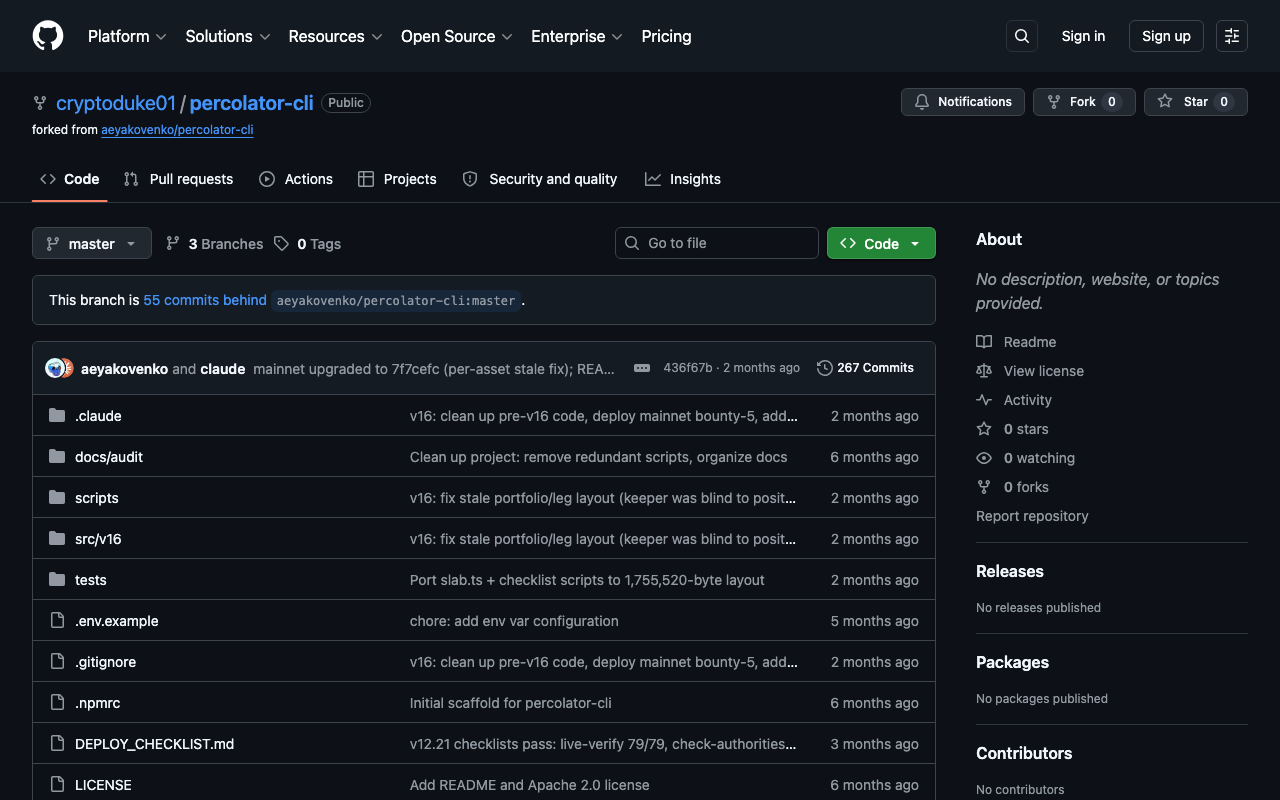
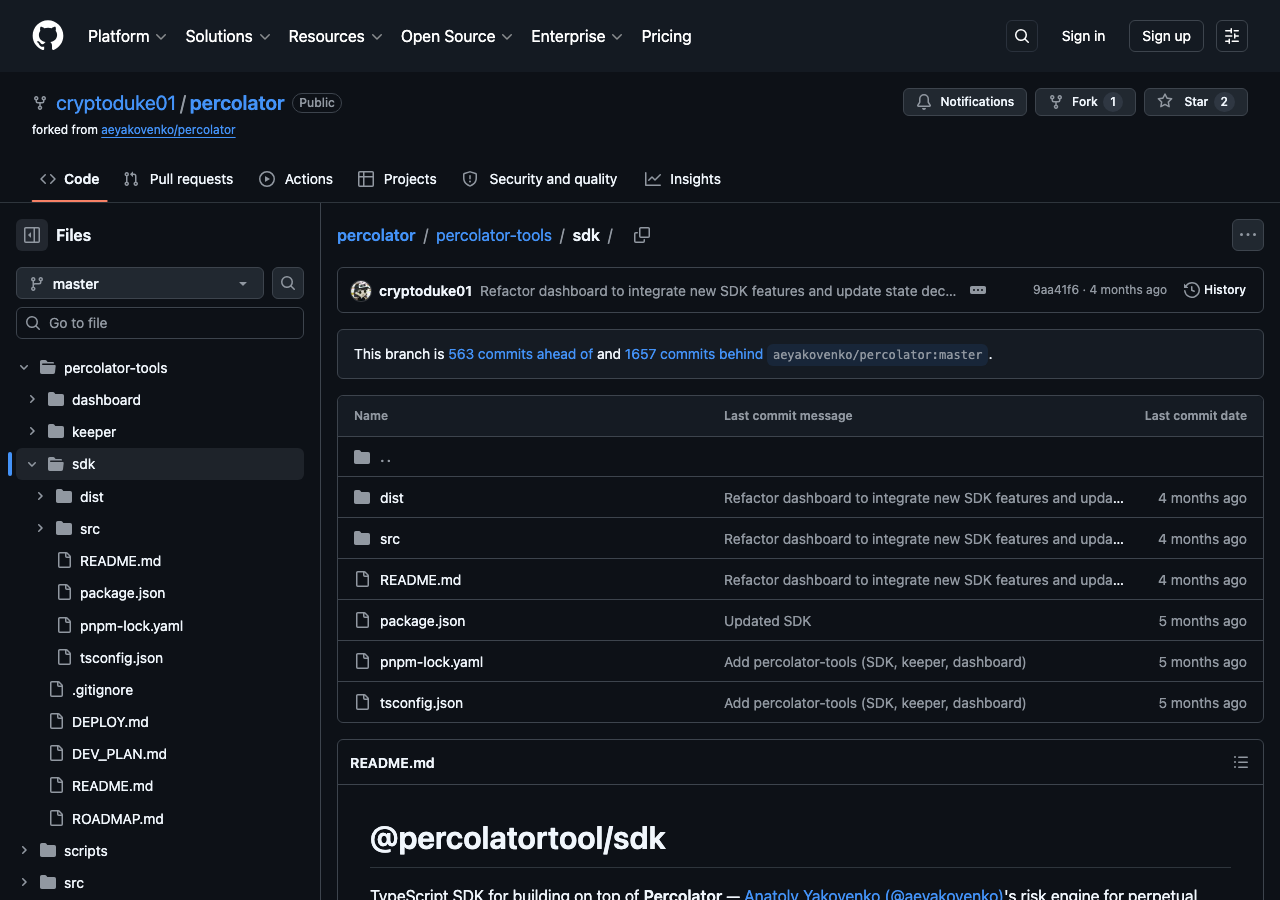
Image Fix on /content

diff --git a/src/app/projects/page.tsx b/src/app/projects/page.tsx
@@ -118,9 +118,9 @@ const projects = [
     title: "Siren",
     description: "Siren was a risk and intelligence layer for prediction markets routing through polymarket, kalshi, through Jupiter and DFlow on Solana.",
     longDescription: "Siren was a risk and intelligence layer for prediction markets routing through polymarket, kalshi, through Jupiter and DFlow on Solana.",
-    image: "", // TODO: [FILL] add Siren screenshot
+    image: "/site-images/siren.png",
     github: "https://github.com/cryptoduke01/siren",
-    demo: "",
+    demo: "https://app.onsiren.xyz/terminal",
     tags: ["Solana", "DeFi", "Trading"],
     date: "2025",
     status: "archived",
@@ -130,7 +130,7 @@ const projects = [
     title: "solweekly",
     description: "solweekly is a weekly Solana ecosystem reporting and publication resource for developers.",
     longDescription: "solweekly is a weekly Solana ecosystem reporting and publication resource for developers.",
-    image: "", // TODO: [FILL] add solweekly screenshot
+    image: "/site-images/solweekly.png",
     github: "", // TODO: [FILL or omit if private] add solweekly github
     demo: "https://solweekly.xyz",
     tags: ["Solana", "Content", "Media"],
@@ -239,7 +239,7 @@ const projects = [
     description: "KD Essence brand and storefront, a freelance client project delivering brand identity and a production e-commerce site.",
     longDescription: "KD Essence brand and storefront, a freelance client project delivering brand identity and a production e-commerce site.",
     image: "/site-images/kdessence.png",
-    github: "", // TODO: [FILL or omit if private] add KD Essence github
+    github: "", // KD Essence is an organization, no public github
     demo: "https://kdessence.vercel.app",
     tags: ["Next.js", "Client", "E-commerce"],
     date: "2025",
@@ -389,6 +389,7 @@ export default function ProjectsPage() {
   const [selectedProject, setSelectedProject] = useState<Project | null>(null);
   const [isPageLoading, setIsPageLoading] = useState(true);
   const [projectList, setProjectList] = useState<Project[]>(projects);
+  const [activeFilter, setActiveFilter] = useState("all");
 
   useEffect(() => {
     const timer = setTimeout(() => setIsPageLoading(false), 800);
@@ -406,8 +407,17 @@ export default function ProjectsPage() {
       .catch(() => {});
   }, []);
 
-  const featuredProjects = projectList.filter((project) => project.featured);
-  const standardProjects = projectList.filter((project) => !project.featured);
+  // Status filter, ordered; only statuses present in the data show up as chips
+  const statusOrder = ["all", "live", "shipped", "in progress", "completed", "archived"];
+  const filters = statusOrder.filter(
+    (status) => status === "all" || projectList.some((project) => project.status === status)
+  );
+  const visibleProjects =
+    activeFilter === "all"
+      ? projectList
+      : projectList.filter((project) => project.status === activeFilter);
+  const featuredProjects = visibleProjects.filter((project) => project.featured);
+  const standardProjects = visibleProjects.filter((project) => !project.featured);
 
   return (
     <main className="relative min-h-screen bg-black overflow-x-hidden scanlines noise">
@@ -509,8 +519,30 @@ export default function ProjectsPage() {
           ))}
         </motion.div>
 
-        {/* Featured Projects */}
-        {featuredProjects.length > 0 && (
+        {/* Filter */}
+        <motion.div
+          initial={{ opacity: 0, y: 20 }}
+          animate={{ opacity: 1, y: 0 }}
+          transition={{ duration: 0.6, delay: 0.15 }}
+          className="flex flex-wrap gap-2 mb-10"
+        >
+          {filters.map((status) => (
+            <button
+              key={status}
+              onClick={() => setActiveFilter(status)}
+              className={`px-3 py-1.5 text-xs font-[family-name:var(--font-display)] capitalize border transition-colors ${
+                activeFilter === status
+                  ? "border-[#00FFD1] text-[#00FFD1] bg-[#00FFD1]/10"
+                  : "border-[#1a1a1a] text-[#666] hover:border-[#00FFD1]/40 hover:text-[#999]"
+              }`}
+            >
+              {status}
+            </button>
+          ))}
+        </motion.div>
+
+        {/* Featured Projects (only in the unfiltered "all" view) */}
+        {activeFilter === "all" && featuredProjects.length > 0 && (
           <div className="mb-16">
             <div className="flex items-center gap-4 mb-6">
               <div className="h-[1px] w-8 bg-[#00FFD1]" />
@@ -537,7 +569,7 @@ export default function ProjectsPage() {
         )}
 
         {/* Development Projects Grid */}
-        {featuredProjects.length > 0 && (
+        {activeFilter === "all" && featuredProjects.length > 0 && (
           <div className="flex items-center gap-4 mb-6">
             <div className="h-[1px] w-8 bg-[#00FFD1]" />
             <span className="text-xs font-medium text-[#00FFD1] tracking-[0.3em] font-[family-name:var(--font-display)]">
@@ -551,7 +583,7 @@ export default function ProjectsPage() {
           transition={{ duration: 0.3 }}
           className="grid md:grid-cols-2 lg:grid-cols-3 gap-6"
         >
-          {standardProjects.map((project, i) => (
+          {(activeFilter === "all" ? standardProjects : visibleProjects).map((project, i) => (
             <ProjectCard
               key={project.id}
               project={project}

diff --git a/README.md b/README.md
@@ -1,47 +1,118 @@
-This is a [Next.js](https://nextjs.org) project bootstrapped with [`create-next-app`](https://nextjs.org/docs/app/api-reference/cli/create-next-app).
+<div align="center">
+
+# duke.sol
+
+**Personal Portfolio & Content Platform**
+
+[![Next.js](https://img.shields.io/badge/Next.js-black?style=flat&logo=next.js)](https://nextjs.org/)
+[![TypeScript](https://img.shields.io/badge/TypeScript-blue?style=flat&logo=typescript)](https://www.typescriptlang.org/)
+[![Vercel](https://img.shields.io/badge/Deployed-Vercel-black?style=flat&logo=vercel)](https://dukesol.vercel.app)
+
+**Live:** [dukesol.vercel.app](https://dukesol.vercel.app/)
+
+</div>
+
+---
+
+The central hub for duke.sol's experiments, threads, writings, and active Solana + AI agent builds.
+
+> "I build products, ship threads, and document the process."
+
+---
+
+## Features
+
+- **Clean portfolio experience** — Hero, testimonials, work updates, and project highlights
+- **Content system** — Threads + articles powered by local JSON + optional GitHub-backed storage
+- **Admin dashboard** (`/admin`) — Edit hero, testimonials, updates, projects, and publish new threads/articles
+- **Image uploads** for thread banners directly into `public/thread-images/`
+- **One-click push to GitHub** from the admin (optional, requires token + repo config)
+- Fully deployed on Vercel
+
+---
+
+## Live Site
+
+- **Portfolio & writing hub**: https://dukesol.vercel.app/
+- **Content page**: https://dukesol.vercel.app/content (threads & articles)
+- **GitHub profile**: https://github.com/cryptoduke01 (see the dedicated profile README repo for the polished landing)
+
+---
+
+## Tech Stack
+
+- Next.js (App Router) + TypeScript + Tailwind
+- Geist font (via next/font)
+- Local JSON data files for content (`data/threads.json`, `data/articles.json`, `data/site-content.json`)
+- Admin protected by simple passcode env var
+- Optional GitHub API integration for publishing content updates
+
+---
 
 ## Getting Started
 
-First, run the development server:
-
 ```bash
-npm run dev
-# or
-yarn dev
-# or
+pnpm install
 pnpm dev
-# or
-bun dev
 ```
 
-Open [http://localhost:3000](http://localhost:3000) with your browser to see the result.
+Open http://localhost:3000.
 
-You can start editing the page by modifying `app/page.tsx`. The page auto-updates as you edit the file.
+### Environment
 
-This project uses [`next/font`](https://nextjs.org/docs/app/building-your-application/optimizing/fonts) to automatically optimize and load [Geist](https://vercel.com/font), a new font family for Vercel.
+Create a `.env.local`:
 
-### Admin & content
+```env
+ADMIN_PASSCODE=your-secure-passcode
 
-- **Admin dashboard** at `/admin`: edit threads and articles, then push to GitHub. Protected by passcode (set `ADMIN_PASSCODE` in env; default `180476`).
-- Admin also manages **site content** (`hero`, `testimonials`, `updates`, `projects`) and can push it to `data/site-content.json`.
-- For thread banners, admin supports direct **image upload** to the repo (`public/thread-images/...`) and auto-fills the image path.
-- **Content** (threads and articles) is loaded from the API, which reads `data/threads.json` and `data/articles.json` from the repo. If those files are missing, the content page falls back to in-code data.
-- To enable **Push to GitHub** from admin, set in `.env`:
-  - `GITHUB_TOKEN` – a personal access token with `repo` scope
-  - `GITHUB_REPO` – e.g. `your-username/duke-portfolio`
-- The first push from admin creates `data/threads.json` and/or `data/articles.json` in the repository.
+# Optional: Enable GitHub content pushing from /admin
+GITHUB_TOKEN=ghp_...
+GITHUB_REPO=cryptoduke01/duke.sol   # or your fork name
+```
 
-## Learn More
+Default passcode in code is `180476` (change it).
 
-To learn more about Next.js, take a look at the following resources:
+### Admin Workflow
 
-- [Next.js Documentation](https://nextjs.org/docs) - learn about Next.js features and API.
-- [Learn Next.js](https://nextjs.org/learn) - an interactive Next.js tutorial.
+1. Visit `/admin`
+2. Authenticate with the passcode
+3. Edit hero, testimonials, updates, or projects
+4. Create/edit threads and articles
+5. Upload images for thread banners
+6. "Push to GitHub" to persist content in the repo (creates `data/*.json` files)
 
-You can check out [the Next.js GitHub repository](https://github.com/vercel/next.js) - your feedback and contributions are welcome!
+Content is read at runtime from the JSON files when present.
 
-## Deploy on Vercel
+---
 
-The easiest way to deploy your Next.js app is to use the [Vercel Platform](https://vercel.com/new?utm_medium=default-template&filter=next.js&utm_source=create-next-app&utm_campaign=create-next-app-readme) from the creators of Next.js.
+## Project Structure Highlights
 
-Check out our [Next.js deployment documentation](https://nextjs.org/docs/app/building-your-application/deploying) for more details.
+```
+app/
+  page.tsx                 # Main portfolio
+  content/                 # Threads & articles listing
+  admin/                   # Protected content manager
+public/
+  thread-images/           # Banner uploads
+data/                      # Generated/persisted JSON content (threads, articles, site-content)
+```
+
+---
+
+## Deployment
+
+Deployed on Vercel. Push to main and Vercel will rebuild.
+
+The admin push-to-GitHub feature lets you update content without leaving the deployed site.
+
+---
+
+## Related
+
+- GitHub: [cryptoduke01](https://github.com/cryptoduke01)
+- X: [@dukedotsol](https://x.com/dukedotsol)
+- Main builds: [keryx](https://github.com/cryptoduke01/keryx), [swindle](https://github.com/cryptoduke01/swindle)
+
+---
+
+Built and maintained by duke.sol.